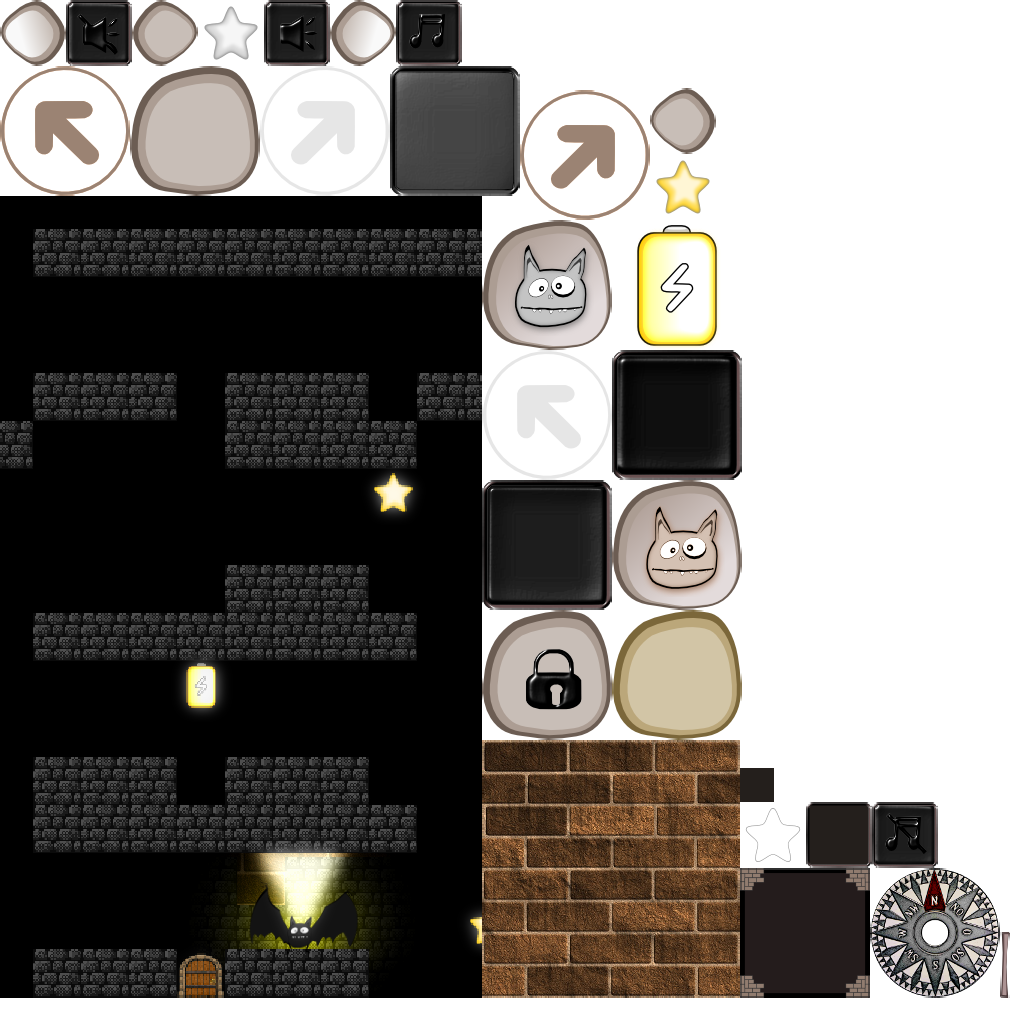
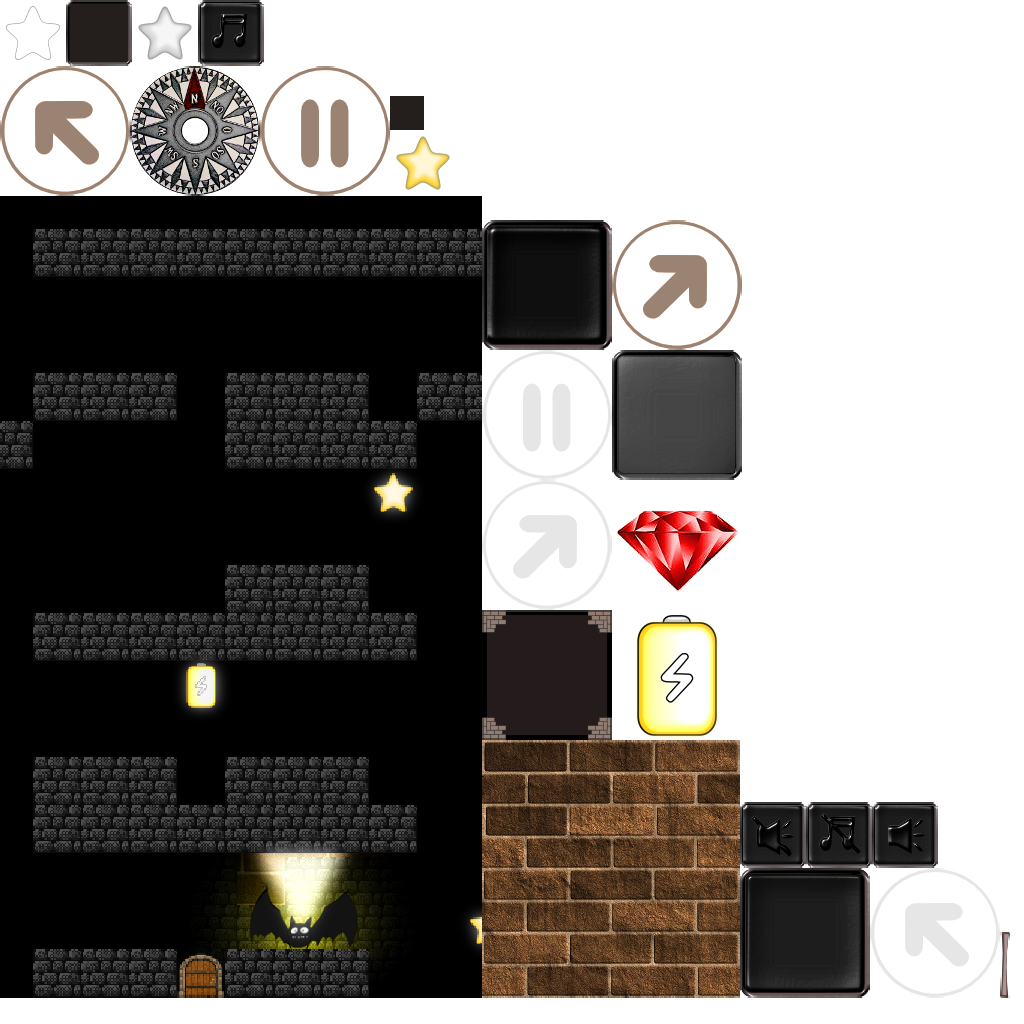
Points counting on finish dialog

Changed region(s): [[0.0, 0.0, 0.75, 0.75], [0.7188, 0.75, 1.0, 1.0], [0.5, 0.375, 0.5625, 0.4375]]

diff --git a/core/src/com/mpv/screens/dialogs/FinishDialog.java b/core/src/com/mpv/screens/dialogs/FinishDialog.java
@@ -8,6 +8,7 @@ import aurelienribon.tweenengine.TweenCallback;
 
 import com.badlogic.gdx.Gdx;
 import com.badlogic.gdx.Input.Keys;
+import com.badlogic.gdx.graphics.g2d.Batch;
 import com.badlogic.gdx.scenes.scene2d.Stage;
 import com.badlogic.gdx.scenes.scene2d.ui.Cell;
 import com.badlogic.gdx.scenes.scene2d.ui.Dialog;
@@ -16,6 +17,7 @@ import com.badlogic.gdx.scenes.scene2d.ui.Label;
 import com.badlogic.gdx.scenes.scene2d.ui.Skin;
 import com.badlogic.gdx.scenes.scene2d.ui.Table;
 import com.badlogic.gdx.scenes.scene2d.ui.Widget;
+import com.badlogic.gdx.scenes.scene2d.utils.Align;
 import com.mpv.data.Assets;
 import com.mpv.data.Const;
 import com.mpv.data.GVars;
@@ -29,7 +31,9 @@ public class FinishDialog extends CustomDialog {
 
 	private float bWidth = Gdx.graphics.getWidth() / 3.2f;
 	private float bHeight = Const.PLAYER_SIZE * GVars.BOX_TO_WORLD / 1.6f;
-	public static Label points = new Label("", Assets.skin, "normal-text");
+	private static Label points = new Label("", Assets.skin, "title-text");
+	private static Label ldiam = new Label("000", Assets.skin, "normal-text");
+	private static Label ltime = new Label("000", Assets.skin, "normal-text");
 	private ArrayList<Image> stars = new ArrayList<Image>(3);
 	Widget empty = new Widget();
 	Table starsTable = new Table();
@@ -58,26 +62,34 @@ public class FinishDialog extends CustomDialog {
 		super(title, skin, styleName);
 		instance = this;
 		Table pointsTable = new Table();
+		Table diamondsTable = new Table();
+		Table timeTable = new Table();
 		Table content = this.getContentTable();
 		// pointsTable.debug();
 		// starsTable.debug();
+		diamondsTable.add(new Image(Assets.skin.getDrawable("diamond"))).size(bHeight / 1.6f).pad(bHeight / 6f);
+		diamondsTable.add(ldiam).height(bHeight / 1.6f).pad(bHeight / 6f);
+		timeTable.add(new Image(Assets.skin.getDrawable("battery"))).size(bHeight / 1.6f).pad(bHeight / 6f);
+		timeTable.add(ltime).height(bHeight / 1.6f).pad(bHeight / 6f);
 		pointsTable.setBackground(Assets.skin.getDrawable("edit"));
-		pointsTable.add(new Label("Points:", Assets.skin, "normal-text")).size(GVars.scrWidth / 6.4f);
-		pointsTable.add(empty).size(GVars.scrWidth / 6.4f);
-		pointsTable.add(points).size(GVars.scrWidth / 4.8f).row();
+		pointsTable.add(diamondsTable).height(bHeight / 1.6f).pad(bHeight / 6f).row();
+		pointsTable.add(timeTable).height(bHeight / 1.6f).pad(bHeight / 6f).row();
+		pointsTable.add(points).size(bWidth, bHeight / 1.2f)
+				.pad(bHeight / 1.6f, bHeight / 6f, bHeight / 6f, bHeight / 6f).row();
+		points.setAlignment(Align.center);
 		starsTable.setBackground(Assets.skin.getDrawable("edit"));
 		setStars();
 		// this.getContentTable().debug();
 		content.add(new Label("Completed!", skin, "title-text")).height(bHeight / 1.6f).pad(bHeight / 6f).row();
-		content.add(empty).width(GVars.scrWidth / 1.6f).height(GVars.scrWidth / 12.8f).row();
-		content.add(pointsTable).row();
-		content.add(starsTable).row();
-		content.add(empty).height(GVars.scrWidth / 12.8f);
-		this.button("Retry", false).button("Next", true).key(Keys.ENTER, true).key(Keys.ESCAPE, false);
+		content.add(pointsTable).width(bWidth * 2f).pad(bHeight / 6f).row();
+		content.add(starsTable).width(bWidth * 2f).pad(bHeight / 6f).row();
+		this.button("Retry", false).button("Menu", true).key(Keys.ENTER, true).key(Keys.ESCAPE, false);
 		for (Cell<?> cell : this.getButtonTable().getCells()) {
 			cell.size(bWidth, bHeight).pad(bHeight / 6f);
 		}
 		points.setUserObject(Integer.valueOf(0));
+		ldiam.setUserObject(Integer.valueOf(0));
+		ltime.setUserObject(Integer.valueOf(0));
 	}
 
 	private void setStars() {
@@ -112,10 +124,10 @@ public class FinishDialog extends CustomDialog {
 
 		stars.get(i).setDrawable(Assets.skin, "star-gold");
 		Tween.set(stars.get(i), ActorAccessor.ALPHA).target(0f).start(GVars.tweenManager);
-		Tween.to(stars.get(i), ActorAccessor.ALPHA, 0.5f).target(1f).delay(4f + i * 0.5f).start(GVars.tweenManager);
+		Tween.to(stars.get(i), ActorAccessor.ALPHA, 0.5f).target(1f).delay(8f + i * 0.5f).start(GVars.tweenManager);
 		// Scale animation
 		Tween.set(stars.get(i), ActorAccessor.SCALE).target(scale * 7).start(GVars.tweenManager);
-		Tween.to(stars.get(i), ActorAccessor.SCALE, 0.5f).target(scale).delay(4f + i * 0.5f).setCallback(cb)
+		Tween.to(stars.get(i), ActorAccessor.SCALE, 0.5f).target(scale).delay(8f + i * 0.5f).setCallback(cb)
 				.setCallbackTriggers(TweenCallback.END).start(GVars.tweenManager);
 
 	}
@@ -126,29 +138,52 @@ public class FinishDialog extends CustomDialog {
 		Assets.playSnd(Assets.winSnd);
 
 		float mapTiming = GameTimer.getInstance().getSpent() / GameObject.getInstance().getMapLimit();
+
+		Tween.set(ldiam, ActorAccessor.TEXT).target(GameObject.getInstance().getCoinCount()).start(GVars.tweenManager);
+		Tween.to(ldiam, ActorAccessor.TEXT, 3.5f).target(0).delay(0.5f).start(GVars.tweenManager);
+		Tween.set(ltime, ActorAccessor.TEXT).target(GameTimer.getInstance().getLeftSec()).start(GVars.tweenManager);
+		Tween.to(ltime, ActorAccessor.TEXT, 3.5f).target(0).delay(4.5f).start(GVars.tweenManager);
+		int totalPoints = GameObject.getInstance().getCoinCount() * 10;
 		Tween.set(points, ActorAccessor.TEXT).target(0).start(GVars.tweenManager);
-		Tween.to(points, ActorAccessor.TEXT, 3.5f).target(Settings.points[GameObject.mapIndex]).delay(0.5f)
-				.setCallback(cbCounterBegin).setCallbackTriggers(TweenCallback.BEGIN).start(GVars.tweenManager);
+		Tween.to(points, ActorAccessor.TEXT, 3.5f).target(totalPoints).delay(0.5f).setCallback(cbCounterBegin)
+				.setCallbackTriggers(TweenCallback.BEGIN).start(GVars.tweenManager);
+		totalPoints += GameTimer.getInstance().getLeftSec() * 5;
+		Tween.to(points, ActorAccessor.TEXT, 3.5f).target(totalPoints).delay(4.5f).setCallback(cbCounterBegin)
+				.setCallbackTriggers(TweenCallback.BEGIN).start(GVars.tweenManager);
+		if (Settings.points[GameObject.mapIndex] < totalPoints) {
+			Settings.points[GameObject.mapIndex] = totalPoints;
+		}
 		for (Image img : stars)
 			img.setDrawable(Assets.skin, "none");
 
-		if (mapTiming < 0.875f) {
+		if (totalPoints >= GameObject.getInstance().getPoints(0)) {
 			animateStar(0);
 			Settings.stars[GameObject.mapIndex] = 1;
 		}
-		if (mapTiming < 0.75f) {
+		if (totalPoints >= GameObject.getInstance().getPoints(1)) {
 			animateStar(1);
 			Settings.stars[GameObject.mapIndex] = 2;
 		}
-		if (mapTiming < 0.5f) {
+		if (totalPoints >= GameObject.getInstance().getPoints(2)) {
 			animateStar(2);
 			Settings.stars[GameObject.mapIndex] = 3;
 		}
 
 		dvisible = true;
-		Tween.set(points, ActorAccessor.TEXT).target(0).start(GVars.tweenManager);
-		Tween.to(points, ActorAccessor.TEXT, 3.5f).target(Settings.points[GameObject.mapIndex]).delay(0.5f)
-				.setCallback(cbCounterBegin).setCallbackTriggers(TweenCallback.BEGIN).start(GVars.tweenManager);
+		/*
+		 * Tween.set(points, ActorAccessor.TEXT).target(0).start(GVars.tweenManager); Tween.to(points,
+		 * ActorAccessor.TEXT, 3.5f).target(Settings.points[GameObject.mapIndex]).delay(0.5f)
+		 * .setCallback(cbCounterBegin).setCallbackTriggers(TweenCallback.BEGIN).start(GVars.tweenManager);
+		 */
 		return super.show(stage);
 	}
+
+	@Override
+	public void draw(Batch batch, float parentAlpha) {
+		points.setText(String.format("%04d", (Integer) points.getUserObject()));
+		ldiam.setText(String.format("%03d", (Integer) ldiam.getUserObject()));
+		ltime.setText(String.format("%03d", (Integer) ltime.getUserObject()));
+		super.draw(batch, parentAlpha);
+	}
+
 }

diff --git a/core/src/com/mpv/screens/stages/GameUIStage.java b/core/src/com/mpv/screens/stages/GameUIStage.java
@@ -8,12 +8,12 @@ import com.badlogic.gdx.scenes.scene2d.ui.Button;
 import com.badlogic.gdx.scenes.scene2d.ui.Image;
 import com.badlogic.gdx.scenes.scene2d.ui.Label;
 import com.badlogic.gdx.scenes.scene2d.ui.Table;
-import com.badlogic.gdx.scenes.scene2d.ui.TextButton;
 import com.badlogic.gdx.scenes.scene2d.ui.Widget;
 import com.badlogic.gdx.scenes.scene2d.utils.Align;
 import com.badlogic.gdx.scenes.scene2d.utils.ClickListener;
 import com.badlogic.gdx.utils.viewport.Viewport;
 import com.mpv.data.Assets;
+import com.mpv.data.Const;
 import com.mpv.data.GVars;
 import com.mpv.game.actors.Player;
 import com.mpv.game.world.GameObject;
@@ -44,7 +44,7 @@ public class GameUIStage extends Stage {
 	public GameUIStage(Viewport viewport, SpriteBatch batch) {
 		super(viewport, batch);
 		instance = this;
-		final TextButton bPause = new TextButton("II", Assets.skin);
+		final Button bPause = new Button(Assets.skin, "pause");
 		//
 		bPause.addListener(new ClickListener() {
 			@Override
@@ -67,6 +67,7 @@ public class GameUIStage extends Stage {
 		labelDebug = new Label("", Assets.skin, "game-text");
 		labelTime = new Label("", Assets.skin, "normal-text");
 		labelCoins = new Label("", Assets.skin, "normal-text");
+		labelCoins.setAlignment(Align.right);
 		leftJump = new Button(Assets.skin, "leftJump");
 		rightJump = new Button(Assets.skin, "rightJump");
 		Widget empty = new Widget();
@@ -75,8 +76,8 @@ public class GameUIStage extends Stage {
 		controlPanel.top();
 		controlPanel.add(new Image(Assets.skin.getDrawable("battery"))).size(GVars.scrWidth / 12f);
 		controlPanel.add(labelTime).expand(true, false).height(getWidth() / 13).width(getWidth() / 4.3f).left();
-		controlPanel.add(labelCoins).expand(false, false).height(getWidth() / 13).width(getWidth() / 8.6f).right();
-		controlPanel.add(new Image(Assets.skin.getDrawable("star-gold"))).size(GVars.scrWidth / 12f).right();
+		controlPanel.add(labelCoins).expand(true, false).height(getWidth() / 13).width(getWidth() / 8.6f).right();
+		controlPanel.add(new Image(Assets.skin.getDrawable("diamond"))).size(GVars.scrWidth / 12f).right();
 
 		// controlPanel.add(labelDebug).expand(true, false).size(GVars.scrHeight/13);
 		// controlPanel.add(labelFPS).expand(true, false).size(GVars.scrHeight/13);
@@ -92,7 +93,7 @@ public class GameUIStage extends Stage {
 		this.addActor(buttonPanel);
 
 		leftJump.addListener(new ClickListener() {
-			Vector2 leftForce = new Vector2(-1f, 1f);
+			Vector2 leftForce = new Vector2(-Const.BLOCK_HALF, Const.BLOCK_HALF);
 
 			@Override
 			public void clicked(com.badlogic.gdx.scenes.scene2d.InputEvent event, float x, float y) {
@@ -101,7 +102,7 @@ public class GameUIStage extends Stage {
 			}
 		});
 		rightJump.addListener(new ClickListener() {
-			Vector2 rightForce = new Vector2(1f, 1f);
+			Vector2 rightForce = new Vector2(Const.BLOCK_HALF, Const.BLOCK_HALF);
 
 			@Override
 			public void clicked(com.badlogic.gdx.scenes.scene2d.InputEvent event, float x, float y) {

diff --git a/core/src/com/mpv/tween/ActorAccessor.java b/core/src/com/mpv/tween/ActorAccessor.java
@@ -1,20 +1,20 @@
 package com.mpv.tween;
 
 import aurelienribon.tweenengine.TweenAccessor;
+
 import com.badlogic.gdx.scenes.scene2d.Actor;
-import com.mpv.screens.dialogs.FinishDialog;
 
 public class ActorAccessor implements TweenAccessor<Actor> {
-	
-	public static final int MOVE 	= 0;
-	public static final int ROTATE 	= 1;
-	public static final int TEXT 	= 2;
-	public static final int SCALE 	= 3;
-	public static final int ALPHA 	= 4;
-	
+
+	public static final int MOVE = 0;
+	public static final int ROTATE = 1;
+	public static final int TEXT = 2;
+	public static final int SCALE = 3;
+	public static final int ALPHA = 4;
+
 	@Override
 	public int getValues(Actor target, int tweenType, float[] returnValues) {
-		switch(tweenType) {
+		switch (tweenType) {
 		case MOVE:
 			returnValues[0] = target.getX();
 			returnValues[1] = target.getY();
@@ -23,11 +23,11 @@ public class ActorAccessor implements TweenAccessor<Actor> {
 			returnValues[0] = target.getRotation();
 			return 1;
 		case TEXT:
-			returnValues[0] = ((Integer)target.getUserObject()).floatValue();
+			returnValues[0] = ((Integer) target.getUserObject()).floatValue();
 			return 1;
 		case SCALE:
 			returnValues[0] = target.getScaleX();
-			return 1;	
+			return 1;
 		case ALPHA:
 			returnValues[0] = target.getColor().a;
 			return 1;
@@ -39,7 +39,7 @@ public class ActorAccessor implements TweenAccessor<Actor> {
 
 	@Override
 	public void setValues(Actor target, int tweenType, float[] newValues) {
-		switch(tweenType) {
+		switch (tweenType) {
 		case MOVE:
 			target.setPosition(newValues[0], newValues[1]);
 			return;
@@ -51,10 +51,9 @@ public class ActorAccessor implements TweenAccessor<Actor> {
 			return;
 		case SCALE:
 			target.setScale(newValues[0]);
-			return;	
-		case TEXT: 
-			target.setUserObject(Integer.valueOf((int)newValues[0]));
-			FinishDialog.points.setText(String.format("%04d", (int)newValues[0]));
+			return;
+		case TEXT:
+			target.setUserObject(Integer.valueOf((int) newValues[0]));
 			return;
 		default:
 			assert false;

diff --git a/core/src/com/mpv/data/GVars.java b/core/src/com/mpv/data/GVars.java
@@ -13,6 +13,7 @@ import com.badlogic.gdx.physics.box2d.World;
 import com.mpv.ApplicationHandler;
 import com.mpv.game.actors.Player;
 import com.mpv.game.world.GameObject;
+import com.mpv.game.world.GameTimer;
 
 public class GVars {
 
@@ -85,6 +86,14 @@ public class GVars {
 				Math.min(Math.max(MathUtils.round(activePlayer.getY()), (int) scrHeight / 2), Assets.mapScaledHeight
 						- (int) scrHeight / 2), 0);
 		frCam.update();
+		// Dim light on low battery :)
+		int sec = GameTimer.getInstance().getLeftSec();
+		if (sec < 10) {
+			playerLight.setDistance(Const.VIEWPORT_METERS * 0.1f * sec);
+		} else {
+			playerLight.setDistance(Const.VIEWPORT_METERS);
+		}
+
 		camLight = new Matrix4(frCam.combined);
 		rayHandler.setCombinedMatrix(camLight.scl(BOX_TO_WORLD));
 		GameObject.getInstance().clearBodies();

diff --git a/core/src/com/mpv/screens/dialogs/StartDialog.java b/core/src/com/mpv/screens/dialogs/StartDialog.java
@@ -32,8 +32,9 @@ public class StartDialog extends CustomDialog {
 		content.setFillParent(false);
 		content.add(lTitle).height(bHeight / 1.6f).pad(bHeight / 6f).center().row();
 		content.add(new Label("Collect:", Assets.skin, "normal-text")).pad(bHeight / 6f).row();
-		content.add(goals).height(bHeight / 1.6f).pad(bHeight / 6f).row();
-		goals.add(new Image(Assets.skin.getDrawable("star-gold"))).size(bHeight / 1.6f);
+		content.add(goals).height(bHeight).width(bWidth * 1.6f).pad(bHeight / 6f).row();
+		goals.setBackground(Assets.skin.getDrawable("edit"));
+		goals.add(new Image(Assets.skin.getDrawable("diamond"))).size(bHeight / 1.6f).pad(bHeight / 6f);
 		goals.add(lPoints).height(bHeight / 1.6f).pad(bHeight / 6f);
 		this.button("Start", true).key(Keys.ENTER, true);
 

diff --git a/core/src/com/mpv/game/world/MapManager.java b/core/src/com/mpv/game/world/MapManager.java
@@ -67,7 +67,7 @@ public class MapManager {
 	private void addCoins() {
 		for (int i = 0; i < GameObject.getInstance().getTotalCoins(); i++) {
 			Cell cell = new Cell();
-			cell.setTile(getTile("coin"));
+			cell.setTile(getTile("diamond"));
 			Position pos = setRandomEmptyCell(cell);
 			CircleShape circleShape = new CircleShape();
 			circleShape.setRadius(0.5f);
@@ -100,7 +100,7 @@ public class MapManager {
 
 	private void setStart() {
 		Cell cell = new Cell();
-		cell.setTile(getTile("start"));
+		cell.setTile(getTile("enter"));
 		start = setRandomEmptyCell(cell);
 		CircleShape circleShape = new CircleShape();
 		circleShape.setRadius(0.5f);

diff --git a/core/src/com/mpv/game/world/GameObject.java b/core/src/com/mpv/game/world/GameObject.java
@@ -13,7 +13,6 @@ import com.badlogic.gdx.physics.box2d.World;
 import com.mpv.data.Assets;
 import com.mpv.data.Const;
 import com.mpv.data.GVars;
-import com.mpv.data.Settings;
 import com.mpv.game.ContactHandler;
 import com.mpv.game.actors.Player;
 import com.mpv.screens.stages.GameUIStage;
@@ -123,7 +122,6 @@ public class GameObject {
 	public void gameFinish() {
 		state = FINISH;
 		Player.state = Player.S_INVISIBLE;
-		Settings.points[mapIndex] = GameTimer.getInstance().getLeftSec() * 10;
 		GameUIStage.getInstance().gameFinish();
 	}
 
